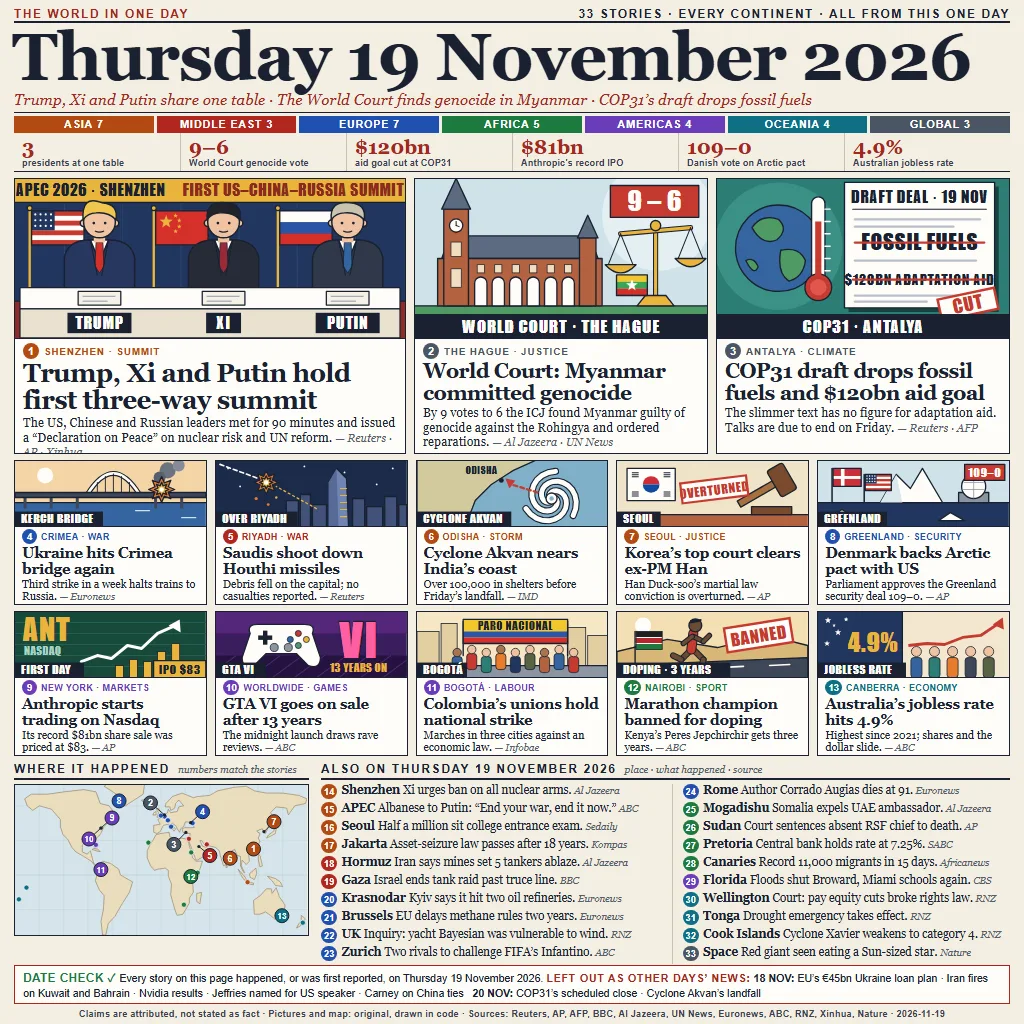
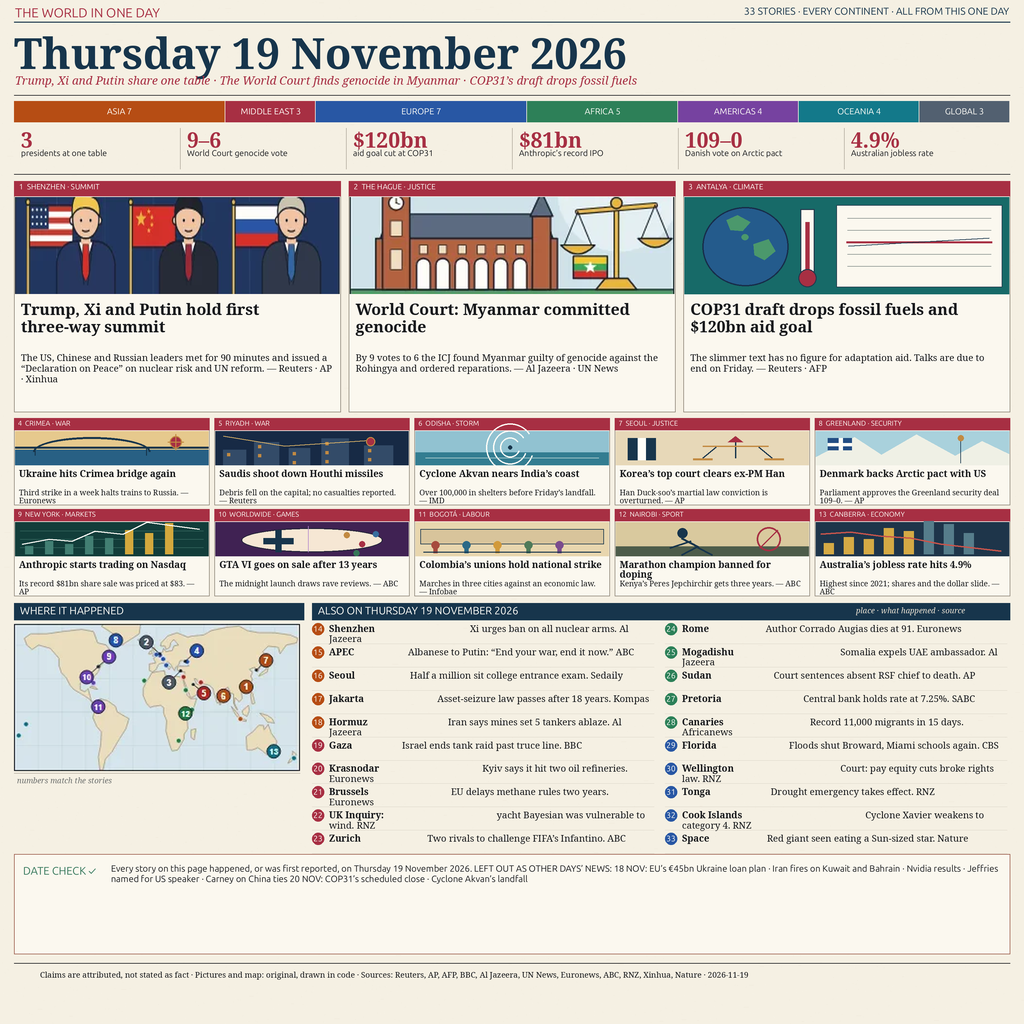
Publish redesigned World News infographic v2

diff --git a/render.py b/render.py
@@ -1,12 +1,276 @@
-"""Write the supplied square newspaper artwork as the project PNG asset."""
+"""High-resolution editorial rebuild of the supplied 33-story front page."""
 from pathlib import Path
-from PIL import Image
+from PIL import Image, ImageDraw, ImageFont, ImageOps
+import random
 
-ROOT = Path(__file__).resolve().parent
-SOURCE = ROOT / 'assets' / 'entry-source.webp'
-OUTPUT = ROOT / 'assets' / 'entry.png'
+ROOT=Path(__file__).resolve().parent
+SRC=Image.open(ROOT/'assets'/'entry-source.webp').convert('RGB')
+W,H,S=1024,1024,3
+BG='#F5F0E3'; PAPER='#FBF8EF'; INK='#17191C'; NAVY='#17354C'; RED='#A72F43'; BLUE='#386D9D'; GREEN='#367658'; OCHRE='#C28A42'; MUTED='#6E716F'; RULE='#9E988C'; WHITE='#FFFEF8'
+im=Image.new('RGB',(W*S,H*S),BG); d=ImageDraw.Draw(im)
+serif='/usr/share/fonts/truetype/noto/NotoSerif-Regular.ttf'
+serifb='/usr/share/fonts/truetype/noto/NotoSerif-Bold.ttf'
+ital='/usr/share/fonts/truetype/noto/NotoSerif-Italic.ttf'
+sans='/usr/share/fonts/truetype/ubuntu/UbuntuSans[wdth,wght].ttf'
+sansb='/usr/share/fonts/truetype/ubuntu/UbuntuSans[wdth,wght].ttf'
+def P(x): return round(x*S)
+def F(size,kind='serif'):
+    return ImageFont.truetype({'serif':serif,'bold':serifb,'italic':ital,'sans':sans,'sansb':sansb}[kind],P(size))
+def text(x,y,s,size,color=INK,kind='serif',anchor=None):
+    d.text((P(x),P(y)),s,font=F(size,kind),fill=color,anchor=anchor)
+def line(x1,y1,x2,y2,color=RULE,width=.6):
+    d.line((P(x1),P(y1),P(x2),P(y2)),fill=color,width=max(1,P(width)))
+def rect(box,fill=None,outline=None,width=.6):
+    d.rectangle(tuple(P(x) for x in box),fill=fill,outline=outline,width=max(1,P(width)))
+def ellipse(box,fill=None,outline=None,width=.6):
+    d.ellipse(tuple(P(x) for x in box),fill=fill,outline=outline,width=max(1,P(width)))
+def poly(points,fill): d.polygon([(P(x),P(y)) for x,y in points],fill=fill)
+def wrap(s,font,maxw):
+    out=[]; cur=''
+    for word in s.split():
+        test=(cur+' '+word).strip()
+        if d.textlength(test,font=font)>P(maxw) and cur: out.append(cur); cur=word
+        else: cur=test
+    if cur: out.append(cur)
+    return out
+def para(x,y,s,w,size,color=INK,leading=None,kind='serif',maxlines=99):
+    font=F(size,kind); rows=wrap(s,font,w)[:maxlines]; step=leading or size*1.2
+    for i,row in enumerate(rows): d.text((P(x),P(y+i*step)),row,font=font,fill=color)
+    return len(rows)*step
+def fit(s,w,size,kind='bold',minimum=7):
+    while size>minimum and d.textlength(s,font=F(size,kind))>P(w): size-=.2
+    return size
 
-image = Image.open(SOURCE).convert('RGB')
-if image.size != (1024, 1024):
-    raise ValueError(f'Expected 1024x1024 source art, found {image.size}')
-image.save(OUTPUT, format='PNG', optimize=True, compress_level=9)
+# Fine warm paper grain, kept subtle beneath all text and artwork.
+random.seed(20261119)
+for _ in range(10000):
+    x=random.randrange(W*S); y=random.randrange(H*S)
+    im.putpixel((x,y),(231,224,209) if random.random()<.36 else (250,247,239))
+d=ImageDraw.Draw(im)
+for _ in range(420):
+    x=random.randrange(W*S); y=random.randrange(H*S); n=random.randrange(3,18)
+    d.line((x,y,min(W*S-1,x+n),y),fill='#eee7d9',width=1)
+
+def art(box,x,y,w,h,focus=(.5,.5)):
+    crop=SRC.crop(box)
+    out=crop.resize((P(w),P(h)),Image.Resampling.LANCZOS)
+    im.paste(out,(P(x),P(y)))
+    return ImageDraw.Draw(im)
+def lead_climate(x,y,w,h):
+    rect((x,y,x+w,y+h),'#176A68')
+    ellipse((x+18,y+10,x+104,y+h-8),'#245B8C','#172D4A',1.2)
+    poly([(x+42,y+23),(x+53,y+18),(x+66,y+25),(x+58,y+34),(x+46,y+33)],'#4B986C')
+    poly([(x+69,y+47),(x+84,y+42),(x+91,y+54),(x+80,y+63),(x+70,y+58)],'#4B986C')
+    ellipse((x+57,y+37,x+64,y+43),'#4B986C')
+    # Temperature column and a clean, unlettered draft panel.
+    rect((x+116,y+12,x+130,y+h-16),PAPER,'#24394C',1)
+    rect((x+121,y+25,x+125,y+h-18),RED)
+    ellipse((x+114,y+h-25,x+132,y+h-7),RED,'#24394C',1)
+    rect((x+152,y+8,x+w-7,y+h-7),'#FBF8EF','#24394C',.8)
+    for yy in (y+21,y+33,y+57,y+69): line(x+163,yy,x+w-18,yy,'#8E9693',.8)
+    line(x+162,y+45,x+w-17,y+45,RED,2)
+    line(x+164,y+49,x+w-20,y+41,NAVY,1.1)
+
+def secondary_scene(x,y,w,h,kind):
+    # A single crisp, caption-free editorial illustration for each compact card.
+    if kind=='bridge':
+        rect((x,y,x+w,y+h),'#E6C98D'); rect((x,y+h*.55,x+w,y+h),'#286084')
+        line(x,y+h*.48,x+w,y+h*.48,NAVY,2)
+        d.arc((P(x+18),P(y+h*.18),P(x+w*.7),P(y+h*1.05)),180,360,fill=NAVY,width=P(2))
+        line(x+20,y+h*.48,x+20,y+h*.72,NAVY,1); line(x+w*.68,y+h*.48,x+w*.68,y+h*.72,NAVY,1)
+        ellipse((x+w*.8,y+5,x+w*.8+12,y+17),RED,OCHRE,1)
+        for dx,dy in ((-8,0),(8,0),(0,-8),(0,8)): line(x+w*.8+6,y+11,x+w*.8+6+dx,y+11+dy,OCHRE,1)
+    elif kind=='war':
+        rect((x,y,x+w,y+h),'#172A45')
+        for j,(xx,ww,hh) in enumerate(((.04,.12,.45),(.2,.13,.68),(.38,.11,.5),(.55,.14,.78),(.77,.15,.58))):
+            rect((x+w*xx,y+h*(1-hh),x+w*(xx+ww),y+h),'#334B68')
+            for wy in range(int(y+h*(1-hh)+4),int(y+h-3),9): rect((x+w*xx+4,wy,x+w*xx+7,wy+3),OCHRE)
+        d.line([(P(x+8),P(y+5)),(P(x+w*.36),P(y+h*.44)),(P(x+w*.8),P(y+h*.27))],fill='#E4B969',width=P(1.1))
+        ellipse((x+w*.78,y+h*.18,x+w*.78+9,y+h*.18+9),RED,OCHRE,1)
+    elif kind=='cyclone':
+        rect((x,y,x+w,y+h),'#91C2D1'); rect((x,y+h*.63,x+w,y+h),'#337D91')
+        for r in (10,17,24): d.arc((P(x+w*.49-r),P(y+h*.48-r),P(x+w*.49+r),P(y+h*.48+r)),20,325,fill=WHITE,width=P(1.5))
+        ellipse((x+w*.49-2,y+h*.48-2,x+w*.49+2,y+h*.48+2),NAVY)
+        line(x+10,y+h*.78,x+w-10,y+h*.78,'#B8D5D4',.6)
+    elif kind=='justice':
+        rect((x,y,x+w,y+h),'#E7D8B8')
+        rect((x+12,y+7,x+40,y+h-5),NAVY); rect((x+22,y+7,x+30,y+h-5),WHITE)
+        line(x+w*.62,y+8,x+w*.62,y+h-7,NAVY,1.5)
+        line(x+w*.45,y+15,x+w*.79,y+15,OCHRE,1.5)
+        line(x+w*.52,y+16,x+w*.45,y+27,NAVY,1); line(x+w*.74,y+16,x+w*.81,y+27,NAVY,1)
+        line(x+w*.40,y+28,x+w*.5,y+28,OCHRE,2); line(x+w*.77,y+28,x+w*.87,y+28,OCHRE,2)
+        poly([(x+w*.58,y+11),(x+w*.66,y+11),(x+w*.62,y+5)],RED)
+    elif kind=='arctic':
+        rect((x,y,x+w,y+h),'#A9D1DC')
+        poly([(x,y+h*.76),(x+w*.2,y+h*.18),(x+w*.34,y+h*.7),(x+w*.52,y+h*.1),(x+w*.72,y+h*.73),(x+w*.86,y+h*.29),(x+w,y+h*.68),(x+w,y+h),(x,y+h)],'#EFF0E5')
+        rect((x+12,y+7,x+36,y+19),'#224D83'); rect((x+23,y+7,x+27,y+19),WHITE); rect((x+12,y+12,x+36,y+15),WHITE)
+        line(x+w*.75,y+h-2,x+w*.75,y+8,NAVY,.8); ellipse((x+w*.75-3,y+4,x+w*.75+3,y+10),OCHRE)
+    elif kind=='markets':
+        rect((x,y,x+w,y+h),'#123D3A')
+        for j in range(1,4): line(x+5,y+j*h/4,x+w-5,y+j*h/4,'#32635B',.5)
+        for i,bh in enumerate((8,13,10,18,16,24,21,31)):
+            xx=x+10+i*20; rect((xx,y+h-bh-2,xx+8,y+h-2),'#D3A83D' if i>4 else '#427F73')
+        pts=[(x+7,y+h-12),(x+34,y+h-17),(x+57,y+h-15),(x+80,y+h-25),(x+108,y+h-22),(x+132,y+h-34),(x+w-9,y+7)]
+        d.line([(P(a),P(b)) for a,b in pts],fill=WHITE,width=P(1.5))
+    elif kind=='games':
+        rect((x,y,x+w,y+h),'#402253')
+        ellipse((x+26,y+6,x+w-26,y+h-4),'#F6E7D4','#232338',1)
+        rect((x+48,y+16,x+78,y+22),NAVY); rect((x+60,y+8,x+66,y+30),NAVY)
+        for cx,cy,c in ((x+w*.68,y+13,OCHRE),(x+w*.76,y+22,RED),(x+w*.83,y+12,BLUE),(x+w*.73,y+31,GREEN)):
+            ellipse((cx-3,cy-3,cx+3,cy+3),c)
+        line(x+w*.48,y+4,x+w*.48,y+h-4,'#B68BCE',.7)
+    elif kind=='labour':
+        rect((x,y,x+w,y+h),'#E8D6AE')
+        rect((x+5,y+7,x+w-5,y+22),'#D8C49B',NAVY,.7)
+        for j,c in enumerate(('#A74B3E','#2B6987','#D29A3A','#4E7A59','#7B4C8E')):
+            xx=x+16+j*31; ellipse((xx,y+19,xx+8,y+27),c); rect((xx+2,y+26,xx+6,y+h-3),c)
+        line(x+8,y+h-4,x+w-8,y+h-4,NAVY,1)
+    elif kind=='sport':
+        rect((x,y,x+w,y+h),'#D9C99E'); rect((x,y+h*.72,x+w,y+h),'#4D5C4A')
+        ellipse((x+w*.32,y+6,x+w*.32+10,y+16),NAVY)
+        line(x+w*.34,y+16,x+w*.43,y+25,NAVY,2); line(x+w*.39,y+19,x+w*.28,y+26,NAVY,1.6)
+        line(x+w*.42,y+25,x+w*.5,y+33,NAVY,1.6); line(x+w*.42,y+25,x+w*.34,y+33,NAVY,1.6)
+        ellipse((x+w*.73,y+5,x+w*.73+24,y+29),None,RED,1.8); line(x+w*.73+3,y+26,x+w*.73+21,y+8,RED,1.8)
+    else: # economy
+        rect((x,y,x+w,y+h),'#1E354A')
+        for i,hg in enumerate((13,19,17,28,25,35,32,23)):
+            xx=x+8+i*20; rect((xx,y+h-hg,xx+10,y+h-2),'#D5AA45' if i<5 else '#567D8B')
+        pts=[(x+5,y+12),(x+35,y+10),(x+65,y+14),(x+95,y+16),(x+125,y+22),(x+w-8,y+29)]
+        d.line([(P(a),P(b)) for a,b in pts],fill='#C8554C',width=P(1.6))
+
+# Masthead and headline
+text(15,5,'THE WORLD IN ONE DAY',13,RED,'sansb')
+text(1009,5,'33 STORIES · EVERY CONTINENT · ALL FROM THIS ONE DAY',10,NAVY,'sansb','ra')
+line(14,22,1010,22,NAVY,1.1)
+text(14,23,'Thursday 19 November 2026',43,NAVY,'bold')
+text(15,72,'Trump, Xi and Putin share one table · The World Court finds genocide in Myanmar · COP31’s draft drops fossil fuels',11.7,RED,'italic')
+line(14,95,1010,95,INK,.8)
+
+# Proportional regional bar, with the reference's category palette.
+regions=[('ASIA',7,'#B64D14'),('MIDDLE EAST',3,RED),('EUROPE',7,'#2857A4'),('AFRICA',5,'#2D8058'),('AMERICAS',4,'#7642A0'),('OCEANIA',4,'#13798A'),('GLOBAL',3,'#526070')]
+total=sum(v for _,v,_ in regions); x=14; avail=996
+for label,n,color in regions:
+    w=avail*n/total
+    rect((x,101,x+w-1,122),color)
+    fs=fit(f'{label} {n}',w-6,8.5,'sansb',6.3)
+    text(x+w/2,111.5,f'{label} {n}',fs,WHITE,'sansb','mm')
+    x+=w
+
+# Six figures from the supplied image.
+stats=[('3','presidents at one table'),('9–6','World Court genocide vote'),('$120bn','aid goal cut at COP31'),('$81bn','Anthropic’s record IPO'),('109–0','Danish vote on Arctic pact'),('4.9%','Australian jobless rate')]
+sw=996/6
+for i,(number,caption) in enumerate(stats):
+    x=14+i*sw
+    if i: line(x,128,x,169,'#B7B0A3',.55)
+    text(x+7,125,number,21,RED,'bold')
+    para(x+7,148,caption,sw-13,8.2,INK,9.1,'sansb',2)
+line(14,174,1010,174,INK,.7)
+
+# Three lead stories. The artwork is cropped from the supplied image; all copy is re-typeset.
+leads=[
+('1','SHENZHEN · SUMMIT','Trump, Xi and Putin hold first three-way summit','The US, Chinese and Russian leaders met for 90 minutes and issued a “Declaration on Peace” on nuclear risk and UN reform. — Reuters · AP · Xinhua',(14,204,406,283)),
+('2','THE HAGUE · JUSTICE','World Court: Myanmar committed genocide','By 9 votes to 6 the ICJ found Myanmar guilty of genocide against the Rohingya and ordered reparations. — Al Jazeera · UN News',(414,220,708,310)),
+('3','ANTALYA · CLIMATE','COP31 draft drops fossil fuels and $120bn aid goal','The slimmer text has no figure for adaptation aid. Talks are due to end on Friday. — Reuters · AFP',(715,178,1008,312))]
+lead_x=14; lead_y=181; lead_gap=8; lead_w=(996-2*lead_gap)/3; lead_h=231
+for i,(num,loc,headline,deck,box) in enumerate(leads):
+    x=lead_x+i*(lead_w+lead_gap); y=lead_y
+    rect((x,y,x+lead_w,y+lead_h),PAPER,'#8F877A',.7)
+    rect((x,y,x+lead_w,y+15),RED)
+    text(x+5,y+1,f'{num}  {loc}',7.7,WHITE,'sansb')
+    if i==2: lead_climate(x+1,y+16,lead_w-2,97)
+    else: art(box,x+1,y+16,lead_w-2,97,(.5,.48))
+    para(x+7,y+117,headline,lead_w-14,15.8,INK,17.2,'bold',3)
+    para(x+7,y+170,deck,lead_w-14,9.4,INK,10.7,'serif',5)
+
+# Secondary stories 4–13 in a compact two-row, five-column grid.
+secondary=[
+('4','CRIMEA · WAR','Ukraine hits Crimea bridge again','Third strike in a week halts trains to Russia. — Euronews',(14,460,208,537)),
+('5','RIYADH · WAR','Saudis shoot down Houthi missiles','Debris fell on the capital; no casualties reported. — Reuters',(214,460,414,537)),
+('6','ODISHA · STORM','Cyclone Akvan nears India’s coast','Over 100,000 in shelters before Friday’s landfall. — IMD',(417,460,611,537)),
+('7','SEOUL · JUSTICE','Korea’s top court clears ex-PM Han','Han Duck-soo’s martial law conviction is overturned. — AP',(615,460,817,537)),
+('8','GREENLAND · SECURITY','Denmark backs Arctic pact with US','Parliament approves the Greenland security deal 109–0. — AP',(817,460,1008,537)),
+('9','NEW YORK · MARKETS','Anthropic starts trading on Nasdaq','Its record $81bn share sale was priced at $83. — AP',(14,611,208,677)),
+('10','WORLDWIDE · GAMES','GTA VI goes on sale after 13 years','The midnight launch draws rave reviews. — ABC',(214,611,414,677)),
+('11','BOGOTÁ · LABOUR','Colombia’s unions hold national strike','Marches in three cities against an economic law. — Infobae',(417,611,611,677)),
+('12','NAIROBI · SPORT','Marathon champion banned for doping','Kenya’s Peres Jepchirchir gets three years. — ABC',(613,611,817,677)),
+('13','CANBERRA · ECONOMY','Australia’s jobless rate hits 4.9%','Highest since 2021; shares and the dollar slide. — ABC',(817,611,1008,677))]
+sec_y=418; sec_gap=5; sec_w=(996-4*sec_gap)/5; sec_h=87
+scene_kinds={4:'bridge',5:'war',6:'cyclone',7:'justice',8:'arctic',9:'markets',10:'games',11:'labour',12:'sport',13:'economy'}
+for i,(num,loc,headline,deck,box) in enumerate(secondary):
+    col=i%5; row=i//5; x=14+col*(sec_w+sec_gap); y=sec_y+row*(sec_h+4)
+    rect((x,y,x+sec_w,y+sec_h),PAPER,'#928A7D',.55)
+    rect((x,y,x+sec_w,y+12),RED)
+    fs=fit(f'{num}  {loc}',sec_w-7,7.15,'sansb',5.8)
+    text(x+4,y+1,f'{num}  {loc}',fs,WHITE,'sansb')
+    secondary_scene(x+1,y+13,sec_w-2,34,scene_kinds[int(num)])
+    para(x+5,y+49,headline,sec_w-10,9.4,INK,9.6,'bold',2)
+    para(x+5,y+69,deck,sec_w-10,7.6,INK,8.1,'serif',3)
+
+# Locate map panel reused from the supplied art, with its 1–13 markers and grey dots.
+lower_y=603
+rect((14,lower_y,304,lower_y+17),NAVY)
+rect((312,lower_y,1010,lower_y+17),NAVY)
+text(20,lower_y+1,'WHERE IT HAPPENED',10.8,WHITE,'sansb')
+text(318,lower_y+1,'ALSO ON THURSDAY 19 NOVEMBER 2026',10.8,WHITE,'sansb')
+text(856,lower_y+2,'place · what happened · source',7.8,'#E9E1D2','italic')
+map_crop=SRC.crop((14,783,309,936)).resize((P(286),P(148)),Image.Resampling.LANCZOS)
+im.paste(map_crop,(P(14),P(623)))
+line(14,773,300,773,'#BDB5A7',.5)
+text(17,775,'numbers match the stories',7.8,MUTED,'italic')
+
+briefs=[
+('14','Shenzhen','Xi urges ban on all nuclear arms.','Al Jazeera'),
+('15','APEC','Albanese to Putin: “End your war, end it now.”','ABC'),
+('16','Seoul','Half a million sit college entrance exam.','Sedaily'),
+('17','Jakarta','Asset-seizure law passes after 18 years.','Kompas'),
+('18','Hormuz','Iran says mines set 5 tankers ablaze.','Al Jazeera'),
+('19','Gaza','Israel ends tank raid past truce line.','BBC'),
+('20','Krasnodar','Kyiv says it hit two oil refineries.','Euronews'),
+('21','Brussels','EU delays methane rules two years.','Euronews'),
+('22','UK Inquiry:','yacht Bayesian was vulnerable to wind.','RNZ'),
+('23','Zurich','Two rivals to challenge FIFA’s Infantino.','ABC'),
+('24','Rome','Author Corrado Augias dies at 91.','Euronews'),
+('25','Mogadishu','Somalia expels UAE ambassador.','Al Jazeera'),
+('26','Sudan','Court sentences absent RSF chief to death.','AP'),
+('27','Pretoria','Central bank holds rate at 7.25%.','SABC'),
+('28','Canaries','Record 11,000 migrants in 15 days.','Africanews'),
+('29','Florida','Floods shut Broward, Miami schools again.','CBS'),
+('30','Wellington','Court: pay equity cuts broke rights law.','RNZ'),
+('31','Tonga','Drought emergency takes effect.','RNZ'),
+('32','Cook Islands','Cyclone Xavier weakens to category 4.','RNZ'),
+('33','Space','Red giant seen eating a Sun-sized star.','Nature')]
+brief_x=312; brief_w=698; col_gap=8; col_w=(brief_w-col_gap)/2; brief_y=622; row_h=23.3
+def draw_brief(x,y,n,place,summary,source):
+    color=('#B64D14','#A72F43','#2C8058','#2857A4')[(int(n)-14)//5%4]
+    ellipse((x,y+1,x+12,y+13),color)
+    text(x+6,y+7,str(n),8.0,WHITE,'sansb','mm')
+    px=x+17; place_font=F(9.3,'bold'); body_font=F(9.2,'serif')
+    text(px,y,place,9.3,INK,'bold')
+    start=px+d.textlength(place,font=place_font)+3
+    first_w=x+col_w-start-3
+    remaining=(summary+' '+source).split(); rows=[]; current=''; width=first_w
+    for word in remaining:
+        test=(current+' '+word).strip()
+        if d.textlength(test,font=body_font)>P(width) and current:
+            rows.append(current); current=word; width=col_w-17
+        else: current=test
+    if current: rows.append(current)
+    for j,row in enumerate(rows[:2]):
+        d.text((P(start if j==0 else px),P(y+j*10.1)),row,font=body_font,fill=INK)
+    line(x, y+21.7,x+col_w-3,y+21.7,'#D8D1C4',.35)
+for i,(n,place,summary,source) in enumerate(briefs):
+    col=0 if i<10 else 1; row=i%10
+    draw_brief(brief_x+col*(col_w+col_gap),brief_y+row*row_h,n,place,summary,source)
+
+# Full-width date check and publication note.
+datecheck=("Every story on this page happened, or was first reported, on Thursday 19 November 2026. "
+"LEFT OUT AS OTHER DAYS’ NEWS: 18 NOV: EU’s €45bn Ukraine loan plan · Iran fires on Kuwait and Bahrain · Nvidia results · Jeffries named for US speaker · Carney on China ties  "
+"20 NOV: COP31’s scheduled close · Cyclone Akvan’s landfall")
+rect((14,854,1010,954),PAPER,'#9E5F4E',.8)
+text(23,864,'DATE CHECK ✓',11, '#397A5E','sansb')
+para(111,863,datecheck,890,9.0,INK,10.3,'sans',5)
+line(14,963,1010,963,INK,.7)
+footer='Claims are attributed, not stated as fact · Pictures and map: original, drawn in code · Sources: Reuters, AP, AFP, BBC, Al Jazeera, UN News, Euronews, ABC, RNZ, Xinhua, Nature · 2026-11-19'
+para(40,969,footer,944,8.0,INK,8.8,'serif',3)
+
+im.resize((W,H),Image.Resampling.LANCZOS).save(ROOT/'assets'/'entry.png',format='PNG',optimize=True,compress_level=9)
